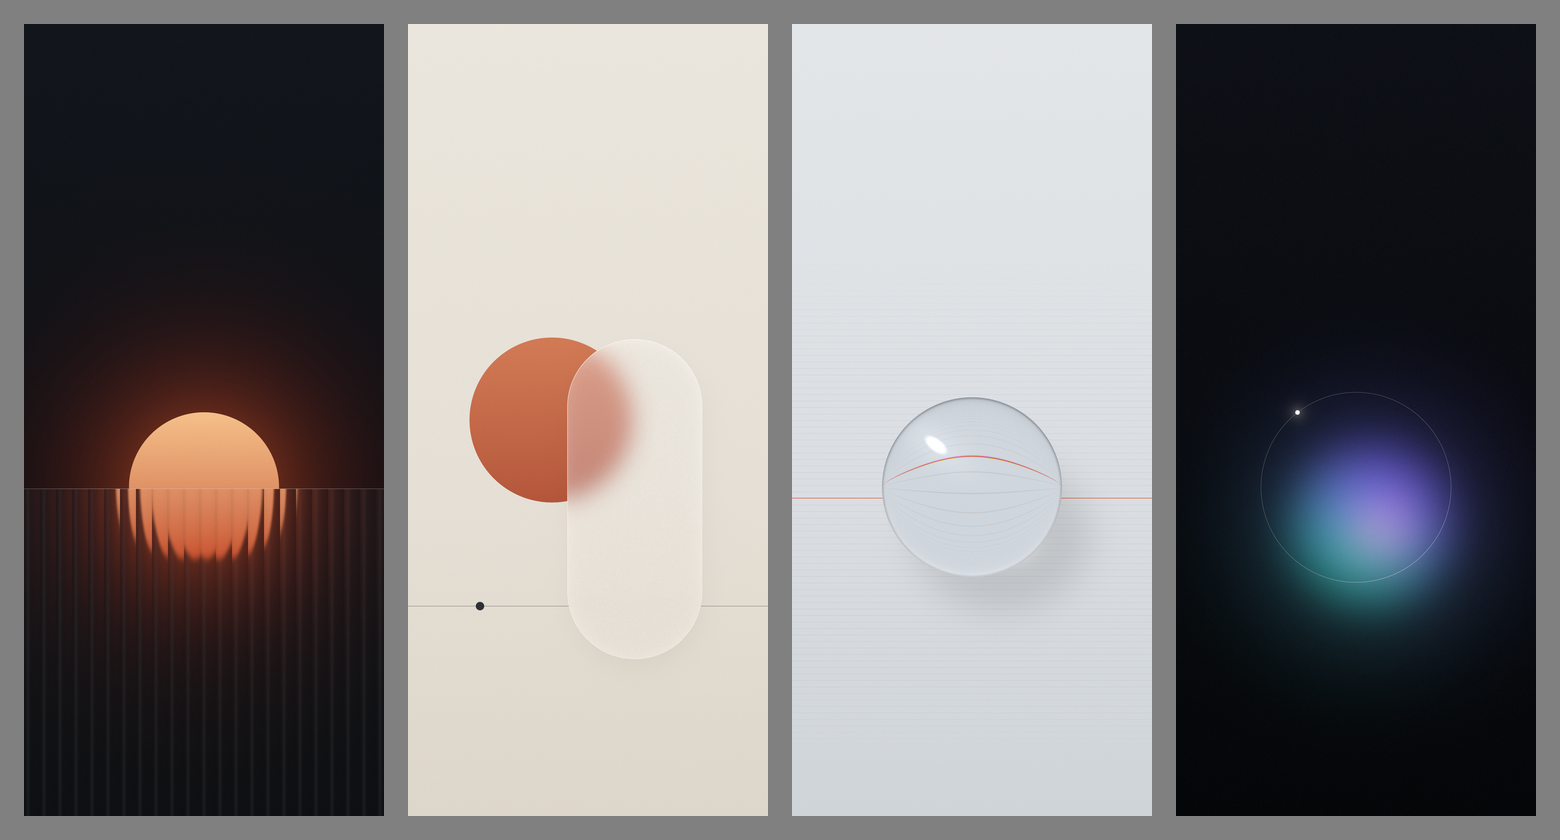
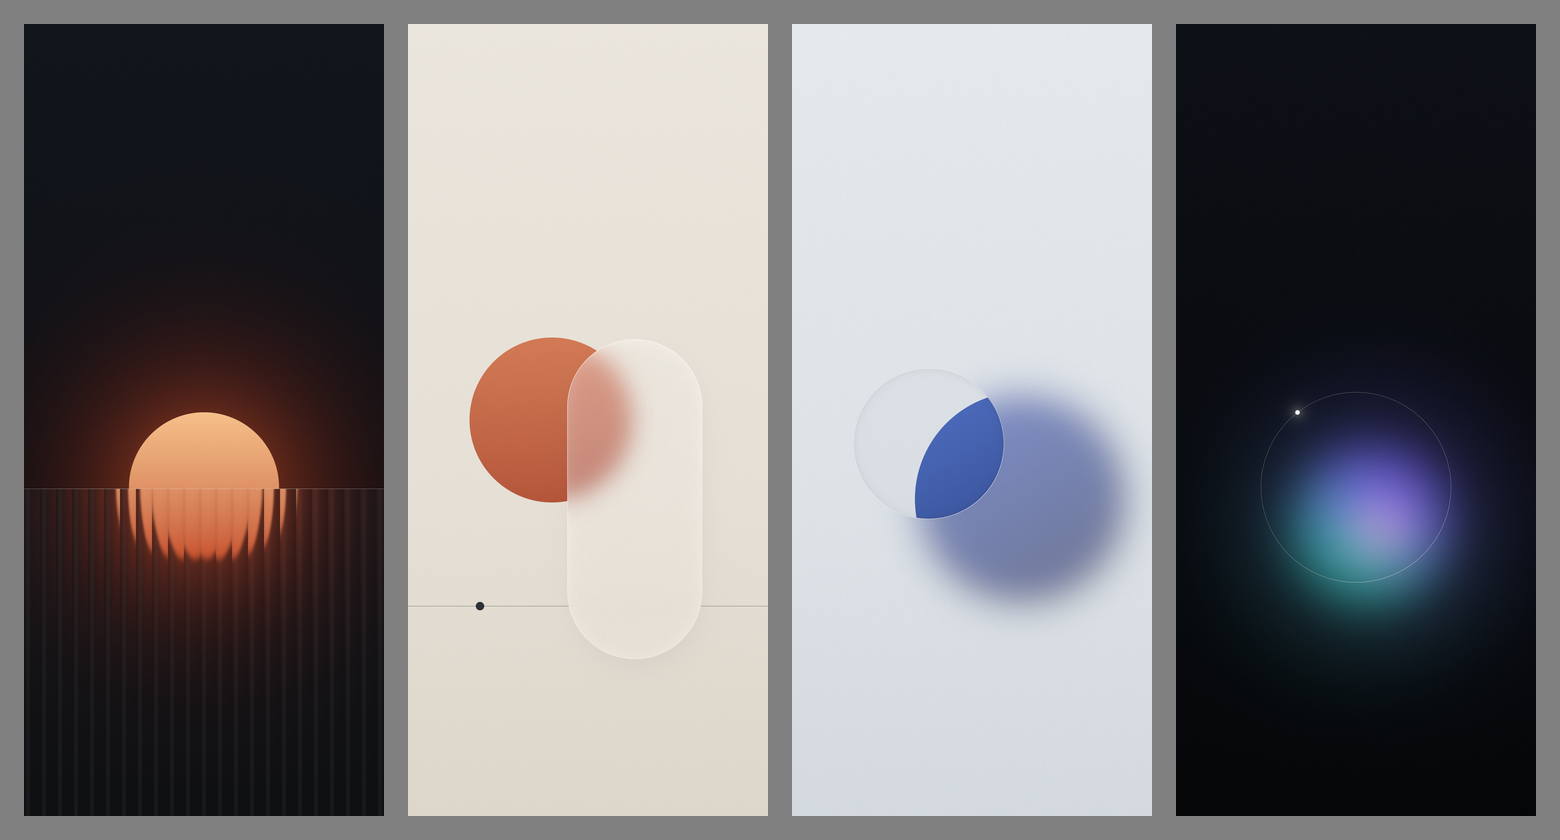
Replace lens wallpaper with frosted pane + clear window
Claude-Session: https://claude.ai/code/session_01DfGbzWpNff5cpXWrUuUtTn

Changed region(s): [[0.5846, 0.4643, 0.7385, 0.7429]]

diff --git a/src/w3_clear.py b/src/w3_clear.py
@@ -1,0 +1,35 @@
+"""Clear — a frosted pane over a cobalt disc, with one round window wiped clean."""
+import numpy as np
+from common import *
+
+x, y = grid()
+
+# --- scene behind the pane -------------------------------------------------------
+bg = vgradient(y, [(0, "#e2e6ea"), (0.6, "#d8dee3"), (1, "#ccd3d9")])
+
+dcx, dcy, dr = W * 0.64, H * 0.60, 430
+t = np.clip(((x - dcx) * 0.5 + (y - dcy) * 0.87) / (2 * dr) + 0.5, 0, 1)
+disc_col = mix(np.broadcast_to(hex2lin("#4a68b8"), bg.shape), hex2lin("#233a78"), t)
+scene = over(bg, disc_col, fill(np.hypot(x - dcx, y - dcy) - dr, 1.2))
+
+# --- frosted pane everywhere ---------------------------------------------------
+frost = gblur(scene, 70)
+frost = mix(frost, hex2lin("#f4f6f8"), 0.16)
+rng = np.random.default_rng(11)
+fr = gblur(rng.normal(0, 1, (H, W)).astype(np.float32), 0.7)
+frost = frost * (1 + 0.03 * fr)[..., None]
+
+# --- the wiped window ------------------------------------------------------------
+wcx, wcy, wr = W * 0.38, H * 0.53, 300
+w_sdf = np.hypot(x - wcx, y - wcy) - wr
+clear = fill(w_sdf, 1.2)
+img = over(frost, scene, clear)
+
+# pane thickness: a faint shadow just inside the cut, light catching the lower edge
+inner = np.exp(np.minimum(w_sdf, 0) / 14) * clear
+img = img * (1 - 0.10 * inner)[..., None]
+ang = np.arctan2(y - wcy, x - wcx)
+lit = 0.25 + 0.75 * (0.5 + 0.5 * np.sin(ang + np.pi / 4)) ** 2
+img = over(img, hex2lin("#ffffff"), stroke(w_sdf - 0.6, 1.3) * lit * 0.8)
+
+save(img, "../wallpapers/03-clear.png", grain=0.006, seed=3)

diff --git a/README.md b/README.md
@@ -6,7 +6,7 @@ Minimal phone wallpapers, 1440×3168. Rendered procedurally with numpy (linear l
 |---|---|
 | `01-fluted` | amber sun half-sunk behind reeded glass |
 | `02-frost` | terracotta disc behind a frosted glass capsule |
-| `03-lens` | ray-traced glass ball bending ruled lines |
+| `03-clear` | frosted pane over a cobalt disc, one round window wiped clean |
 | `04-aura` | defocused cool glow inside a hairline ring |
 
 ![preview](preview.png)
